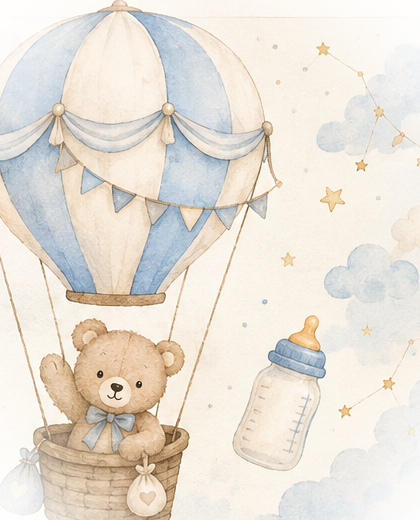
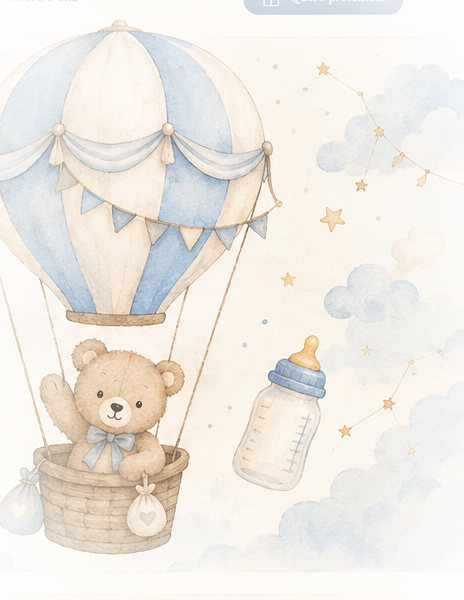
fix(hero): ilustração do urso como fundo integrado da capa
Claude-Session: https://claude.ai/code/session_0152WxZw4hx8nLNL4RbXDxPz

diff --git a/assets/style.css b/assets/style.css
@@ -53,12 +53,12 @@ svg{display:block}
 .link-arrow:hover{text-decoration:underline}
 
 /* ---------- hero ---------- */
-.hero{position:relative;overflow:hidden;background:radial-gradient(ellipse at 70% 30%,#fff 0%,var(--cream) 55%,var(--cream-deep) 100%)}
-.hero-inner{position:relative;max-width:1180px;margin:0 auto;padding:36px 16px 40px;display:grid;gap:24px;align-items:center}
+.hero{position:relative;overflow:hidden;background:#F5EFE3}
+.hero-inner{position:relative;max-width:1180px;margin:0 auto;padding:36px 16px 440px;display:grid;gap:24px;align-items:center}
 @media(min-width:900px){.hero-inner{grid-template-columns:1fr 1fr;padding:48px 32px 56px;gap:32px}}
 .hero-text{position:relative;text-align:center}
 @media(min-width:900px){.hero-text{text-align:left}}
-.hero-moon{width:110px;margin:0 auto 4px}
+.hero-moon{width:110px;margin:0 auto 4px;mix-blend-mode:multiply}
 @media(min-width:900px){.hero-moon{width:150px;margin:0 0 0 -10px}}
 .hero-title{font-size:clamp(40px,6vw,60px);line-height:1;color:var(--brown-soft);font-weight:500}
 .hero-title .script{display:block;font-size:clamp(78px,12vw,128px);line-height:.95;margin-top:2px}
@@ -73,12 +73,13 @@ svg{display:block}
 .hero-actions{display:flex;flex-direction:column;gap:12px;margin-top:28px}
 @media(min-width:520px){.hero-actions{flex-direction:row;justify-content:center}}
 @media(min-width:900px){.hero-actions{justify-content:flex-start}}
-.hero-illustration{display:flex;justify-content:center}
-.hero-illustration img{width:min(440px,86vw);height:auto;mix-blend-mode:multiply;animation:float 6s ease-in-out infinite}
+.hero-art{position:absolute;inset:0;z-index:0;pointer-events:none;background:linear-gradient(180deg,#F5EFE3 0%,rgba(245,239,227,0) 26%),url('img/hero-balloon.png') center bottom/min(430px,92vw) auto no-repeat;mix-blend-mode:multiply;animation:float 6s ease-in-out infinite}
+@media(min-width:900px){.hero-art{background:linear-gradient(90deg,#F5EFE3 40%,rgba(245,239,227,0) 66%),url('img/hero-balloon.png') right -30px center/auto 108% no-repeat;mix-blend-mode:multiply}}
+.hero-text{z-index:1}
 @keyframes float{0%,100%{transform:translateY(0)}50%{transform:translateY(-10px)}}
 .star{position:absolute;color:var(--gold);opacity:.8;animation:twinkle 2.6s ease-in-out infinite;pointer-events:none}
 @keyframes twinkle{0%,100%{opacity:.35;transform:scale(1)}50%{opacity:.9;transform:scale(1.2)}}
-@media(prefers-reduced-motion:reduce){.hero-illustration img,.star{animation:none}}
+@media(prefers-reduced-motion:reduce){.hero-art,.star{animation:none}}
 
 /* ---------- cards de capa ---------- */
 .home{padding:20px 16px 40px;max-width:1180px;margin:0 auto;display:grid;gap:18px}

diff --git a/index.html b/index.html
@@ -35,9 +35,7 @@
         <a class="btn btn-secondary btn-lg" href="sobre.html">Ver informações do chá</a>
       </div>
     </div>
-    <div class="hero-illustration">
-      <img src="assets/img/hero-balloon.png" alt="Ursinho num balão de ar quente">
-    </div>
+    <div class="hero-art" aria-hidden="true"></div>
   </div>
 </section>
 
